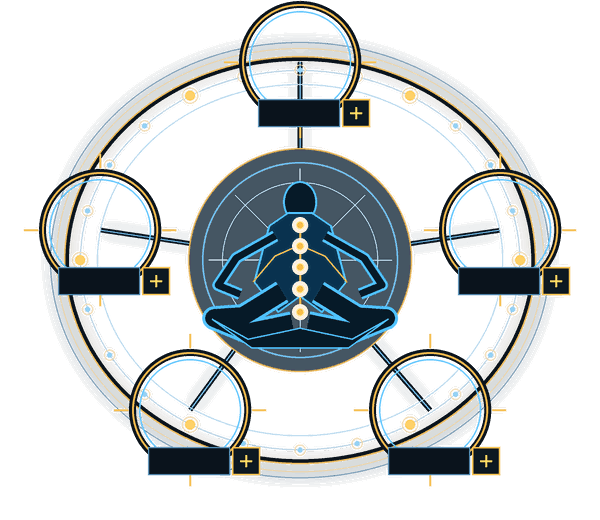
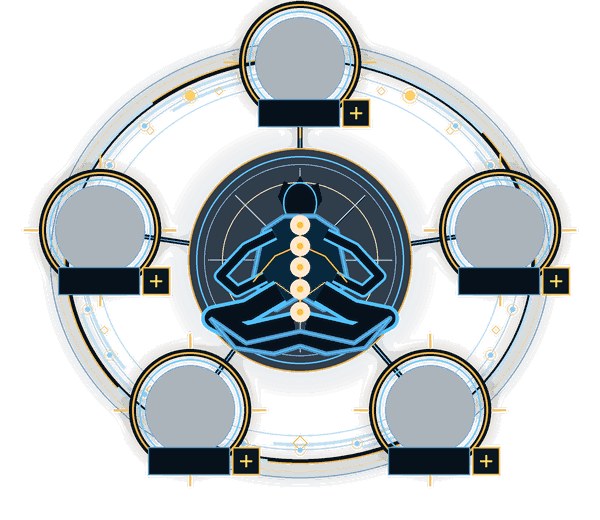
chore: lgo autopilot checkpoint character-hub-potential-polish-v11 - character-hub-potential-polish-v11
Status: NEED_HUMAN_VISUAL_REVIEW
Phase: character-hub-potential-polish-v11
Next action:
Reason: Một asset topology 600x520 nay có ba lớp rune, cardinal diamond, quầng/nền node và lõi thiền liền silhouette; năm class vẫn chỉ bind overlay dùng chung. Capture bắt buộc đúng ba viewport.

diff --git a/tools/build_lgo_character_hub_skin.py b/tools/build_lgo_character_hub_skin.py
@@ -200,6 +200,23 @@ def build_potential_topology() -> Image.Image:
     ellipse(center, (220, 190), outline=(41, 126, 182, 92), line_width=1)
     ellipse(center, (203, 176), outline=(49, 145, 206, 95), line_width=1)
 
+    # Quiet rune tracks and cardinal ornaments give the shared orbit the same
+    # authored depth as the approved board without baking any class data into it.
+    for inset, start in ((12, 8), (20, 31), (30, 54)):
+        bounds = box((52 + inset, 44 + inset, 548 - inset, 476 - inset))
+        for quarter in range(4):
+            angle = start + quarter * 90
+            draw.arc(bounds, angle, angle + 43, fill=(52, 154, 217, 76), width=3 * scale)
+    for index in range(16):
+        angle = math.tau * index / 16
+        x = center[0] + math.cos(angle) * 212
+        y = center[1] + math.sin(angle) * 183
+        rune_size = 4 if index % 4 else 7
+        diamond = [(x, y - rune_size), (x + rune_size, y),
+                   (x, y + rune_size), (x - rune_size, y)]
+        draw.line([(round(px * scale), round(py * scale)) for px, py in diamond + [diamond[0]]],
+                  fill=(235, 174, 56, 150 if index % 4 else 225), width=max(2, scale))
+
     for index in range(24):
         angle = math.tau * index / 24
         x = center[0] + math.cos(angle) * 220
@@ -210,46 +227,72 @@ def build_potential_topology() -> Image.Image:
         ellipse((x, y), (radius + 3, radius + 3), outline=(224, 162, 53, 105), line_width=1)
 
     # Central meditation seal and silhouette are also part of the fixed template.
-    ellipse(center, (112, 112), fill=(2, 24, 42, 188), outline=(225, 164, 49, 200), line_width=1.5)
-    ellipse(center, (98, 98), outline=(48, 169, 245, 180), line_width=1.5)
-    ellipse(center, (78, 78), outline=(45, 151, 211, 90), line_width=1)
+    core_glow = Image.new("RGBA", size, (0, 0, 0, 0))
+    core_glow_draw = ImageDraw.Draw(core_glow)
+    core_glow_draw.ellipse(box((190, 150, 410, 370)), fill=(18, 137, 229, 55))
+    core_glow_draw.ellipse(box((254, 214, 346, 306)), fill=(255, 166, 34, 105))
+    image = Image.alpha_composite(image, core_glow.filter(ImageFilter.GaussianBlur(22 * scale)))
+    draw = ImageDraw.Draw(image)
+    ellipse(center, (112, 112), fill=(2, 20, 38, 210), outline=(225, 164, 49, 220), line_width=1.5)
+    ellipse(center, (104, 104), outline=(62, 187, 255, 205), line_width=1.5)
+    ellipse(center, (96, 96), outline=(24, 105, 168, 150), line_width=1)
+    ellipse(center, (78, 78), outline=(229, 169, 55, 105), line_width=1)
     for angle in range(0, 360, 45):
         radians = math.radians(angle)
         line([(center[0], center[1]),
               (center[0] + math.cos(radians) * 92, center[1] + math.sin(radians) * 92)],
              (43, 151, 216, 76), 1)
 
-    aura = (55, 185, 255, 225)
-    ink = (2, 22, 37, 252)
-    cloth = (5, 48, 76, 250)
-    ellipse((300, 202), (17, 21), fill=ink, outline=aura, line_width=2)
-    torso = [(269, 226), (254, 282), (278, 312), (300, 296), (322, 312), (346, 282), (331, 226), (312, 213), (288, 213)]
+    aura = (67, 191, 255, 235)
+    aura_soft = (26, 112, 178, 190)
+    energy = (255, 181, 48, 252)
+    ink = (1, 15, 28, 255)
+    cloth = (3, 37, 61, 255)
+    # Head, tied hair and shoulder mantle form one readable silhouette at the
+    # actual in-game size instead of a collection of unrelated body strokes.
+    hair = [(278, 197), (284, 181), (294, 188), (300, 176), (306, 188),
+            (318, 183), (322, 200), (314, 212), (286, 212)]
+    draw.polygon([(x * scale, y * scale) for x, y in hair], fill=ink)
+    ellipse((300, 203), (17, 21), fill=ink, outline=aura, line_width=1.5)
+    torso = [(284, 216), (263, 230), (252, 282), (276, 310), (300, 296),
+             (324, 310), (348, 282), (337, 230), (316, 216)]
     draw.polygon([(x * scale, y * scale) for x, y in torso], fill=cloth)
-    line(torso + [torso[0]], aura, 2)
+    line(torso + [torso[0]], aura_soft, 5)
+    line(torso + [torso[0]], aura, 1.5)
     for points, outer_width, inner_width in (
-        ([(275, 236), (236, 258), (218, 285), (240, 294)], 12, 7),
-        ([(325, 236), (364, 258), (382, 285), (360, 294)], 12, 7),
-        ([(282, 292), (243, 316), (214, 318), (248, 332), (292, 323)], 24, 18),
-        ([(318, 292), (357, 316), (386, 318), (352, 332), (308, 323)], 24, 18),
+        ([(274, 234), (246, 248), (220, 276), (237, 291), (265, 277)], 13, 8),
+        ([(326, 234), (354, 248), (380, 276), (363, 291), (335, 277)], 13, 8),
+        ([(280, 292), (248, 311), (214, 318), (246, 335), (294, 324)], 26, 19),
+        ([(320, 292), (352, 311), (386, 318), (354, 335), (306, 324)], 26, 19),
     ):
         line(points, aura, outer_width)
         line(points, ink, inner_width)
-    lap = [(212, 319), (248, 339), (300, 328), (352, 339), (388, 319), (348, 348), (252, 348)]
+    lap = [(210, 318), (246, 343), (300, 331), (354, 343), (390, 318),
+           (365, 348), (326, 354), (300, 346), (274, 354), (235, 348)]
     draw.polygon([(x * scale, y * scale) for x, y in lap], fill=ink)
+    line(lap + [lap[0]], aura_soft, 5)
     line(lap + [lap[0]], aura, 1.5)
     meridian = [(300, 225), (300, 246), (300, 267), (300, 289), (300, 312)]
-    line(meridian, (255, 180, 40, 245), 2)
-    line([(300, 245), (275, 256), (253, 282)], (255, 180, 40, 210), 1.5)
-    line([(300, 245), (325, 256), (347, 282)], (255, 180, 40, 210), 1.5)
+    line(meridian, energy, 2)
+    line([(300, 245), (275, 256), (253, 282)], (255, 180, 40, 220), 1.5)
+    line([(300, 245), (325, 256), (347, 282)], (255, 180, 40, 220), 1.5)
+    line([(275, 282), (300, 300), (325, 282)], (255, 180, 40, 175), 1)
     for point in meridian:
-        ellipse(point, (8, 8), fill=(255, 150, 25, 45))
+        ellipse(point, (10, 10), fill=(255, 150, 25, 55))
         ellipse(point, (4, 4), fill=(255, 181, 42, 255), outline=(255, 232, 154, 245), line_width=1)
 
     for cx, cy in POTENTIAL_NODE_CENTERS:
         # Complete node ring, value box and add box are baked into this one template.
+        node_glow = Image.new("RGBA", size, (0, 0, 0, 0))
+        node_glow_draw = ImageDraw.Draw(node_glow)
+        node_glow_draw.ellipse(box((cx - 62, cy - 62, cx + 62, cy + 62)),
+                               outline=(255, 178, 42, 105), width=7 * scale)
+        image = Image.alpha_composite(image, node_glow.filter(ImageFilter.GaussianBlur(7 * scale)))
+        draw = ImageDraw.Draw(image)
         ellipse((cx, cy), (61, 61), outline=(2, 11, 20, 248), line_width=7)
         ellipse((cx, cy), (58, 58), outline=(238, 176, 60, 230), line_width=2)
         ellipse((cx, cy), (51, 51), outline=(59, 185, 255, 190), line_width=1.5)
+        ellipse((cx, cy), (45, 45), fill=(2, 28, 52, 85), outline=(28, 116, 191, 155), line_width=1)
         for dx, dy in ((-69, 0), (69, 0), (0, -69), (0, 69)):
             if dx:
                 line([(cx + dx - 7, cy), (cx + dx + 7, cy)], (244, 184, 65, 220), 2)

diff --git a/docs/design/LGO-MAP01A-UI-REVIEW-CATALOG-v0.1.md b/docs/design/LGO-MAP01A-UI-REVIEW-CATALOG-v0.1.md
@@ -16,7 +16,7 @@ This catalog points reviewers to the current Map01A 2D UI evidence. It is techni
 | Character hub — Nhân vật | `build/map01a-five-tab-chrome-runtime-v3/{pc,mobile,tablet}/character-info.png` | Chrome v2 hiện hành; đủ 10 slot, actor, identity/vitals và detail-right trên shared shell/panel/tab/action skin. `OWNER_VISUAL_REVIEW_REQUIRED`; actor/art dùng runtime source hiện hành theo contract. |
 | Character hub — Rương đồ | `build/map01a-five-tab-chrome-runtime-v3/{pc,mobile,tablet}/{bag,bag-search-binh-mau,bag-search-binh-mau-selected}.png` | Chrome v2 hiện hành; rail dọc, grid, search/selection và detail ba action giữ cùng composition ở ba viewport. `OWNER_VISUAL_REVIEW_REQUIRED`. |
 | Character hub — Kỹ năng | `build/map01a-five-tab-chrome-runtime-v3/{pc,mobile,tablet}/{skills-default,skills}.png` | Chrome v2 hiện hành; rail, graph, equipped strip và detail-right dùng chung modal/panel/tab skin. `OWNER_VISUAL_REVIEW_REQUIRED`; progression action giữ khóa. |
-| Character hub — Tiềm năng | `build/map01a-character-hub-potential-template-runtime-v10/{pc,mobile,tablet}/{potential-default,potential}.png` | Một template tĩnh 600×520 dùng chung sở hữu vòng/đường nối/khung node/ô giá trị/ô cộng/core figure/trục mạch; overlay chỉ bind icon/text/value/click và cùng object tree được giữ khi đổi class. Evidence đúng PC 1280×720, tablet 1024×768, mobile landscape 1600×720. Detail-right vẫn là một template dùng chung. `OWNER_VISUAL_REVIEW_REQUIRED`; progression action giữ khóa. |
+| Character hub — Tiềm năng | `build/map01a-character-hub-potential-polish-runtime-v11/{pc,mobile,tablet}/{potential-default,potential}.png` | Một template tĩnh 600×520 dùng chung sở hữu vòng rune/đường nối/khung và quầng node/ô giá trị/ô cộng/lõi thiền/trục mạch; overlay chỉ bind icon/text/value/click và cùng object tree được giữ khi đổi class. Evidence đúng PC 1280×720, tablet 1024×768, mobile landscape 1600×720. Detail-right vẫn là một template dùng chung. `OWNER_VISUAL_REVIEW_REQUIRED`; progression action giữ khóa. |
 | Character hub — Linh thú | `build/map01a-five-tab-chrome-runtime-v3/{pc,mobile,tablet}/spirit-pet.png` | Chrome v2 hiện hành; hero, progress, roster và inspector badge dùng chung modal/panel/tab skin. `OWNER_VISUAL_REVIEW_REQUIRED`; slot/action chưa có contract giữ khóa. |
 | Quest/HUD route | `build/map01a-completion-copy-runtime-v2/01-arrival-q01.bmp`, `build/map01a-completion-copy-runtime-v2/09-q04-starter-supplies.bmp`, `build/map01a-completion-copy-runtime-v2/10-q04-health-potion-used.bmp`, `build/map01a-completion-copy-runtime-v2/18-q09-portal-open.bmp`, and `build/map01a-completion-copy-runtime-v2/manifest.json` | Current Q01–Q09 route evidence; final tracker uses the player-facing Đông Lâm name, item detail remains functional, Q05–Q09 world view unobstructed, 18 route frames and 38 dialogue frames at 1600×900 |
 | Gameplay menu | `build/map01a-modal-input-runtime-v1/menu.png` and `build/map01a-modal-input-runtime-v1/manifest.json` | Current menu evidence; v1/v2 rejected; `usesOsMouseOrKeyboard=false`, 1600×900 |
@@ -31,7 +31,7 @@ This catalog points reviewers to the current Map01A 2D UI evidence. It is techni
 - Nhân vật: review `build/map01a-five-tab-chrome-runtime-v3/{pc,mobile,tablet}/character-info.png`; kiểm shell/hoa văn/tab/action cùng actor và 10 slot.
 - Rương đồ: review `build/map01a-five-tab-chrome-runtime-v3/{pc,mobile,tablet}/{bag,bag-search-binh-mau,bag-search-binh-mau-selected}.png`; kiểm rail/grid/search/selection/detail trên cùng chrome.
 - Kỹ năng: review `build/map01a-five-tab-chrome-runtime-v3/{pc,mobile,tablet}/{skills-default,skills}.png`; kiểm rail/graph/equipped/detail và trạng thái tab chọn.
-- Tiềm năng: review `build/map01a-character-hub-potential-template-runtime-v10/{pc,mobile,tablet}/{potential-default,potential}.png`; kiểm template topology/core/trục mạch, alignment icon/tên/value/add, detail hero/current level/current/next/cost và trạng thái tab chọn ở đúng ba viewport.
+- Tiềm năng: review `build/map01a-character-hub-potential-polish-runtime-v11/{pc,mobile,tablet}/{potential-default,potential}.png`; kiểm vòng rune/lõi thiền/trục mạch, alignment icon/tên/value/add, detail hero/current level/current/next/cost và trạng thái tab chọn ở đúng ba viewport.
 - Linh thú: review `build/map01a-five-tab-chrome-runtime-v3/{pc,mobile,tablet}/spirit-pet.png`; kiểm hero/progress/roster/detail và trạng thái tab chọn.
 - Route start/item detail/end: `build/map01a-completion-copy-runtime-v2/01-arrival-q01.bmp`, `build/map01a-completion-copy-runtime-v2/09-q04-starter-supplies.bmp`, `build/map01a-completion-copy-runtime-v2/10-q04-health-potion-used.bmp`, and `build/map01a-completion-copy-runtime-v2/18-q09-portal-open.bmp`.
 - Menu: `build/map01a-modal-input-runtime-v1/menu.png`.

diff --git a/docs/execution/NEXT-ACTION.md b/docs/execution/NEXT-ACTION.md
@@ -1,14 +1,14 @@
 ## Quick Resume
 
 - `OPERATIONAL_GOAL_CURRENT`: hoàn thiện Character Hub 5 tab trên một shared base; screen đang active duy nhất là Tiềm năng theo `redesign-v4-five-tabs/04-tiem-nang-five-tab-APPROVED.png`.
-- Checkpoint v10 giữ template tĩnh 600×520 có sẵn vòng/đường/node/value/add/core; class chỉ bind icon/tên/value/selection trên overlay dùng chung. Import giữ đúng native size bằng `nPOTScale: 0`.
-- Player: `build/map01a-character-hub-potential-template-player-v9/LinhGioiOnline.app`.
-- Evidence hiện hành duy nhất: `build/map01a-character-hub-potential-template-runtime-v10/{pc,mobile,tablet}/{potential-default,potential}.png`; lần lượt 1280×720, 1024×768, 1600×720; 9 frame/profile, `usesOsMouseOrKeyboard=false`. Capture bằng `python3.12 tools/capture_lgo_character_hub.py ...`; không nhận evidence nếu ba profile dùng sai kích thước.
+- Checkpoint v11 giữ template tĩnh 600×520 và polish chiều sâu trên chính asset chung: ba lớp rune, cardinal diamond, quầng/nền node, lõi thiền và trục mạch; class chỉ bind overlay dùng chung. Import giữ đúng native size bằng `nPOTScale: 0`.
+- Player: `build/map01a-character-hub-potential-polish-player-v11/LinhGioiOnline.app`.
+- Evidence hiện hành duy nhất: `build/map01a-character-hub-potential-polish-runtime-v11/{pc,mobile,tablet}/{potential-default,potential}.png`; lần lượt 1280×720, 1024×768, 1600×720; 9 frame/profile, `usesOsMouseOrKeyboard=false`. Capture bằng `python3.12 tools/capture_lgo_character_hub.py ...`; không nhận evidence nếu ba profile dùng sai kích thước.
 - Không phát triển class/pose/wardrobe/source art trong task này; không phục hồi renderer cũ hoặc dựng UI theo class.
 
 ## Next task
 
-1. Owner review v10, tập trung template topology cố định, alignment icon/tên/value trên năm node và hierarchy current/next/cost ở detail-right trên đủ ba viewport thật.
+1. Owner review v11, tập trung độ sâu vòng rune/lõi thiền, alignment icon/tên/value trên năm node và hierarchy current/next/cost ở detail-right trên đủ ba viewport thật.
 2. Chỉ sửa feedback visual cụ thể trên shared topology/detail; khi owner duyệt mới khóa screen và chọn canonical UI screen tiếp theo.
 3. Không đổi canonical, class art, pose, wardrobe, camera/base/scale hoặc frozen surface.
 
@@ -17,7 +17,7 @@
 `NEED_HUMAN_VISUAL_REVIEW`: code, test và Player capture đã qua gate; acceptance hình ảnh của screen Tiềm năng cần owner duyệt.
 
 Evidence:
-`build/map01a-character-hub-potential-template-runtime-v10/{pc,mobile,tablet}/{potential-default,potential}.png`
+`build/map01a-character-hub-potential-polish-runtime-v11/{pc,mobile,tablet}/{potential-default,potential}.png`
 
 ## Checkpoint detail
 
@@ -26,5 +26,5 @@ Evidence:
 - Skill và Tiềm năng là hai topology tách biệt. Test đổi đủ năm class giữ nguyên reference panel/node/topology/detail và chọn đúng node mặc định từ profile data.
 - TDD RED `0/1`, GREEN targeted `3/3`; full Unity EditMode `287 total / 286 passed / 0 failed / 1 ignored`.
 - Shared UI validator pass; governance `23/23`; pose pack `12/12`; registered capture `19/19`; no-3D/no-source-images pass.
-- Player v9 `Succeeded`, `errors=0`; capture v10 đúng PC/tablet/mobile; frozen diff/`git diff --check` pass. Runtime asset 53.995 byte và toàn bộ skin khóa native-size import.
+- Player v11 `Succeeded`, `errors=0`, `warnings=0`; capture đúng PC/tablet/mobile; frozen diff/`git diff --check` pass. Runtime asset 59.678 byte và toàn bộ skin khóa native-size import.
 - Chưa claim owner visual acceptance hoặc art/wardrobe đủ năm class.

diff --git a/docs/execution/PROJECT-STATE.md b/docs/execution/PROJECT-STATE.md
@@ -1,11 +1,12 @@
-## Character Hub — Tiềm năng shared topology + evidence đúng ba viewport v10 — 2026-09-15
+## Character Hub — Tiềm năng shared topology polish v11 — 2026-09-15
 
 - Audit theo feedback owner xác nhận dữ liệu và object tree đã dùng chung, nhưng topology v8 vẫn ghép nhiều primitive `Painter2D`; đây là nguyên nhân nét khó khóa theo design và tạo cảm giác mỗi node đang được dựng riêng.
 - v9 thay phần hình học bằng đúng một asset `character-hub-potential-topology.png` 600×520: vòng ngoài, đường nối, năm vòng node, ô giá trị, ô cộng, glyph và silhouette/trục mạch đều có sẵn. `CharacterHubPotentialTopology` chỉ nạp template; năm overlay trong suốt chỉ bind icon/tên/value/click. Đổi Võ/Kiếm/Pháp/Cơ/Linh giữ nguyên object tree, không có UI branch theo class và Skill không dùng chung topology này.
 - Asset được sinh xác định từ `build_lgo_character_hub_skin.py`, không cắt canonical, giảm từ 279 KiB xuống 53.995 byte bằng palette 256 màu. Toàn bộ skin Character Hub khóa `nPOTScale: 0`; Unity không còn tự ép asset 600×520 thành 512×512 hoặc làm mờ/méo các surface/tab/button không phải power-of-two.
 - TDD RED bắt đúng lỗi importer `expected 600 but was 512`; GREEN targeted Unity `1/1`, full EditMode `287 total / 286 passed / 0 failed / 1 ignored`; asset/guard `12/12`, no-3D/no-source-images pass. Player `build/map01a-character-hub-potential-template-player-v9/LinhGioiOnline.app`.
-- Audit evidence sau checkpoint phát hiện ba profile v9 đều bị gọi thiếu `-screen-width/-screen-height`, nên cùng ra 1024×768 và không đủ chứng minh responsive. `capture_lgo_character_hub.py` nay là lệnh capture dùng chung cho cả năm tab: Player tự click nội bộ, bắt đúng PC 1280×720, tablet 1024×768, mobile landscape 1600×720, đủ chín frame và manifest; test `4/4`. Evidence thay thế duy nhất: `build/map01a-character-hub-potential-template-runtime-v10/{pc,mobile,tablet}/{potential-default,potential}.png`; đã xem trực tiếp ba ảnh, không cắt/chồng/vỡ topology.
-- Trạng thái `NEED_HUMAN_VISUAL_REVIEW`; tiếp tục giữ class art/pose/wardrobe/source và screen khác ngoài scope cho đến khi owner duyệt màn Tiềm năng v10.
+- Audit evidence sau checkpoint phát hiện ba profile v9 đều bị gọi thiếu `-screen-width/-screen-height`, nên cùng ra 1024×768 và không đủ chứng minh responsive. `capture_lgo_character_hub.py` nay là lệnh capture dùng chung cho cả năm tab: Player tự click nội bộ, bắt đúng PC 1280×720, tablet 1024×768, mobile landscape 1600×720, đủ chín frame và manifest; test `4/4`.
+- Tự audit v10 so với canonical cho thấy topology đã đúng cấu trúc nhưng còn phẳng. v11 chỉ polish một asset dùng chung: ba lớp rune liên tục, cardinal diamond, quầng node đồng nhất, nền node và lõi thiền liền silhouette/trục mạch; không thêm UI/class branch. PNG 59.678 byte. Full EditMode `287 total / 286 passed / 0 failed / 1 ignored`; Player 0 error/0 warning. Evidence hiện hành: `build/map01a-character-hub-potential-polish-runtime-v11/{pc,mobile,tablet}/{potential-default,potential}.png`; đã xem đủ ba viewport, không cắt/chồng/vỡ topology.
+- Trạng thái `NEED_HUMAN_VISUAL_REVIEW`; tiếp tục giữ class art/pose/wardrobe/source và screen khác ngoài scope cho đến khi owner duyệt màn Tiềm năng v11.
 
 ## Character Hub — Tiềm năng mặc định đúng profile năm class v8 — 2026-09-15
 
